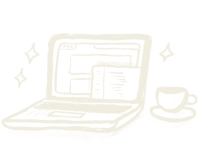
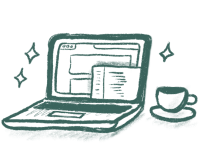
fixed wierd coloring

Changed region(s): [[0.0, 0.2078, 0.99, 0.9091], [0.06, 0.4416, 0.15, 0.5714]]

diff --git a/index-styles.css b/index-styles.css
@@ -131,10 +131,7 @@
     justify-content: top;
     max-width: 325px;
     padding: 25px;
-    border-radius: 15px;
-    background-color: var(--text-color);
     visibility: hidden;
-    filter: drop-shadow(rgba(0, 0, 0, 0.25) 0px 4px 4px);
 }
 
 .service img {
@@ -155,14 +152,12 @@
     word-wrap: break-word;
     text-align: center;
     justify-content: center;
-    color: var(--background-color);
 }
 
 .service h4 {
     word-wrap: break-word;
     text-align: center;
     justify-content: center;
-    color: var(--background-color);
 }
 
 
